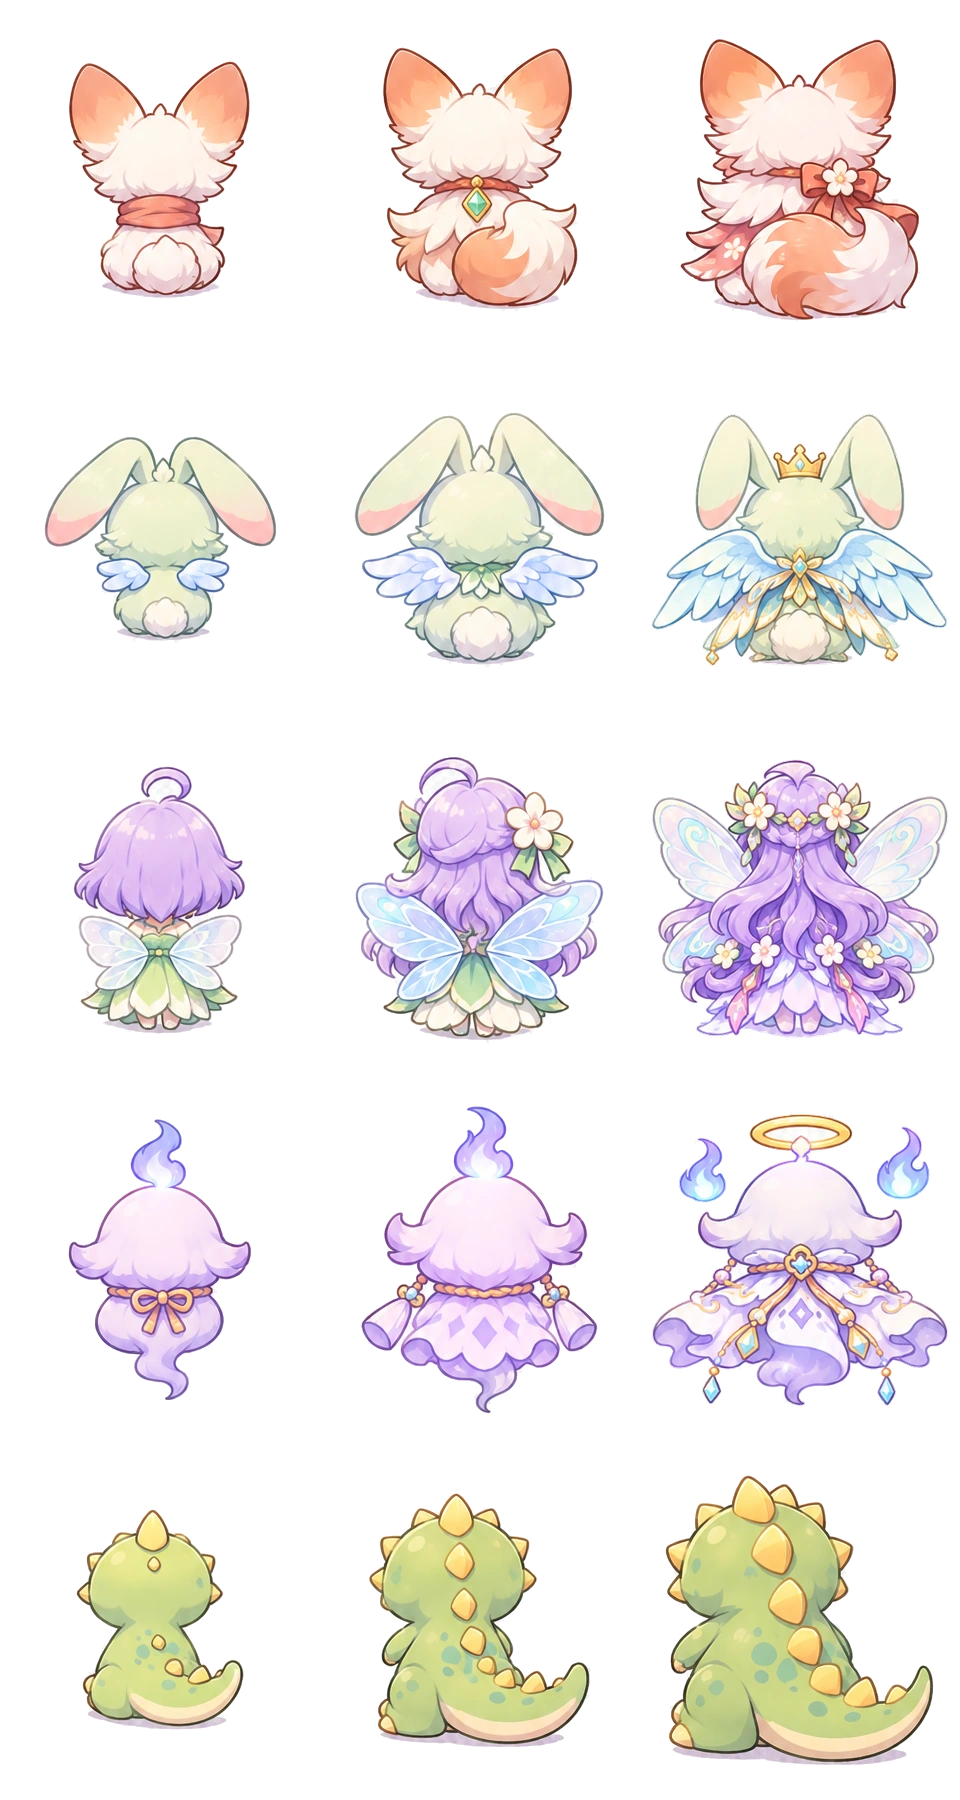
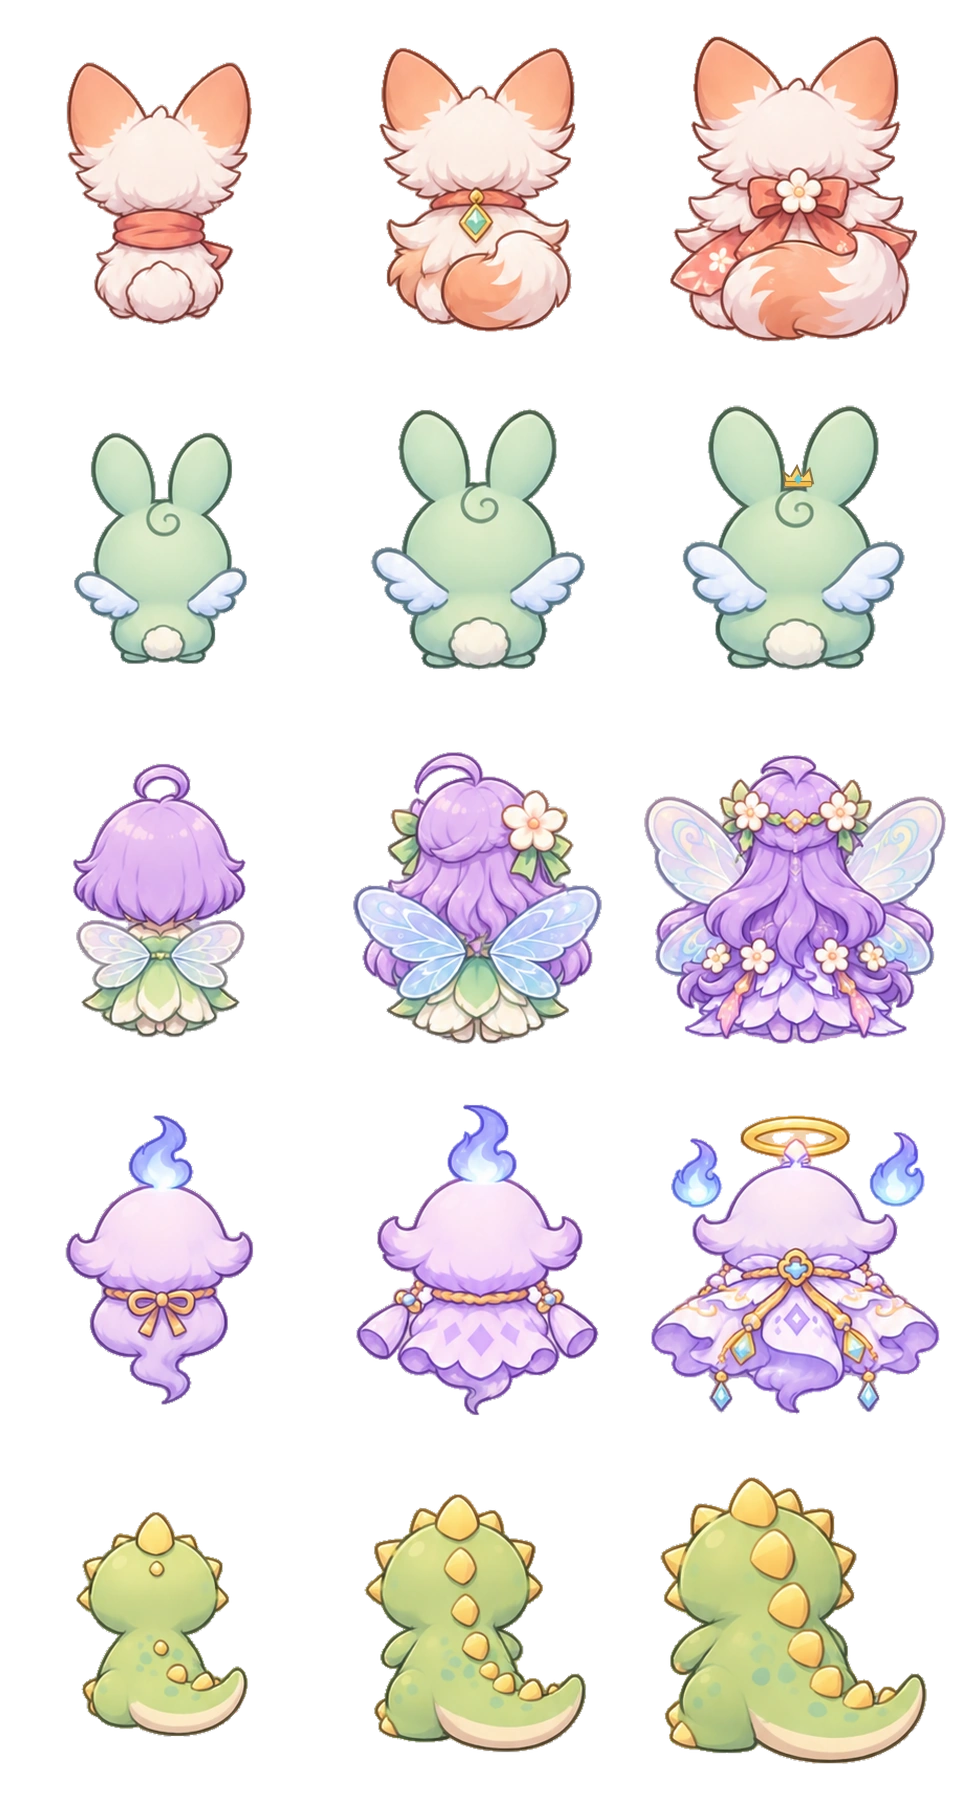
fix(pet): align rear sprite silhouettes and clean alpha (candidate.15)

diff --git a/pet-game.css b/pet-game.css
@@ -315,13 +315,13 @@ body.app-locked .pet-visitor,body:has(dialog[open]) .pet-visitor{display:none}
 }
 .pet-art-image{position:absolute;inset:0;background-repeat:no-repeat;background-color:transparent}
 .pet-art-baby:not(.pet-art-yokai) .pet-art-image{
-  background-image:url("./assets/pet-concept-atlas.webp?v=0246c14");background-size:200% 400%;
+  background-image:url("./assets/pet-concept-atlas.webp?v=0246c15");background-size:200% 400%;
 }
 .pet-art-baby.pet-art-yokai .pet-art-image{
-  background-image:url("./assets/pet-yokai-concept.webp?v=0246c14");background-size:200% 100%;
+  background-image:url("./assets/pet-yokai-concept.webp?v=0246c15");background-size:200% 100%;
 }
 .pet-art-growth .pet-art-image{
-  background-image:url("./assets/pet-growth-atlas.webp?v=0246c14");background-size:400% 500%;
+  background-image:url("./assets/pet-growth-atlas.webp?v=0246c15");background-size:400% 500%;
 }
 .pet-art-front.pet-art-baby .pet-art-image{background-position-x:0%}
 .pet-art-side.pet-art-baby .pet-art-image{background-position-x:100%}
@@ -423,9 +423,9 @@ body.app-locked .pet-visitor,body:has(dialog[open]) .pet-visitor{display:none}
 }
 
 
-/* candidate.14 rear view sprites: 3 stage columns by 5 species rows, 320x360 pixels per cell. */
+/* candidate.15 rear view sprites: 3 stage columns by 5 species rows, 320x360 pixels per cell. */
 .pet-character .pet-art-back .pet-art-image{
-  background-image:url("./assets/pet-rear-atlas.webp?v=0246c14");
+  background-image:url("./assets/pet-rear-atlas.webp?v=0246c15");
   background-size:300% 500%;background-repeat:no-repeat;
 }
 .pet-art-back.pet-art-baby .pet-art-image{background-position-x:0%}

diff --git a/index.html b/index.html
@@ -6,14 +6,14 @@
   <meta name="theme-color" content="#111827">
   <title>家計・資産管理</title>
   <link rel="manifest" href="manifest.webmanifest">
-  <link rel="stylesheet" href="styles.css?v=0246c14">
-  <link rel="stylesheet" href="pet-game.css?v=0246c14">
+  <link rel="stylesheet" href="styles.css?v=0246c15">
+  <link rel="stylesheet" href="pet-game.css?v=0246c15">
 </head>
 <body class="app-booting">
   <header class="app-header">
     <div>
       <h1>家計・資産管理</h1>
-      <p class="sub">v0.2.46-candidate.14</p>
+      <p class="sub">v0.2.46-candidate.15</p>
     </div>
     <label class="month-picker">対象月
       <input id="globalMonth" type="month">
@@ -476,12 +476,12 @@
   </section>
   <div id="toast" role="status" aria-live="polite"></div>
 
-  <script src="db.js?v=0246c14"></script>
-  <script src="dcard-import.js?v=0246c14"></script>
-  <script src="analysis.js?v=0246c14"></script>
-  <script src="pet-art.js?v=0246c14"></script>
-  <script src="pet-illustration.js?v=0246c14"></script>
-  <script src="pet-game.js?v=0246c14"></script>
-  <script src="app.js?v=0246c14"></script>
+  <script src="db.js?v=0246c15"></script>
+  <script src="dcard-import.js?v=0246c15"></script>
+  <script src="analysis.js?v=0246c15"></script>
+  <script src="pet-art.js?v=0246c15"></script>
+  <script src="pet-illustration.js?v=0246c15"></script>
+  <script src="pet-game.js?v=0246c15"></script>
+  <script src="app.js?v=0246c15"></script>
 </body>
 </html>

diff --git a/service-worker.js b/service-worker.js
@@ -1,5 +1,5 @@
-const CACHE='household-asset-manager-v0.2.46-candidate.14';
-const FILES=['./','./index.html','./styles.css?v=0246c14','./db.js?v=0246c14','./dcard-import.js?v=0246c14','./analysis.js?v=0246c14','./pet-game.css?v=0246c14','./pet-art.js?v=0246c14','./assets/pet-concept-atlas.webp?v=0246c14','./assets/pet-yokai-concept.webp?v=0246c14','./pet-illustration.js?v=0246c14','./assets/pet-growth-atlas.webp?v=0246c14','./assets/pet-rear-atlas.webp?v=0246c14','./pet-game.js?v=0246c14','./app.js?v=0246c14','./manifest.webmanifest','./icon-192.png','./icon-512.png'];
+const CACHE='household-asset-manager-v0.2.46-candidate.15';
+const FILES=['./','./index.html','./styles.css?v=0246c15','./db.js?v=0246c15','./dcard-import.js?v=0246c15','./analysis.js?v=0246c15','./pet-game.css?v=0246c15','./pet-art.js?v=0246c15','./assets/pet-concept-atlas.webp?v=0246c15','./assets/pet-yokai-concept.webp?v=0246c15','./pet-illustration.js?v=0246c15','./assets/pet-growth-atlas.webp?v=0246c15','./assets/pet-rear-atlas.webp?v=0246c15','./pet-game.js?v=0246c15','./app.js?v=0246c15','./manifest.webmanifest','./icon-192.png','./icon-512.png'];
 
 self.addEventListener('install',e=>{
   e.waitUntil(

diff --git a/db.js b/db.js
@@ -1,7 +1,7 @@
 (function(global){
   'use strict';
   const HAM=global.HAM=global.HAM||{};
-  const APP_VERSION='0.2.46-candidate.14';
+  const APP_VERSION='0.2.46-candidate.15';
   const SCHEMA_VERSION=2;
   const DB_NAME='householdAssetManagerDB_v2';
   const DB_VERSION=1;

diff --git a/README.md b/README.md
@@ -1,3 +1,11 @@
+### v0.2.46-candidate.15：背面の造形修正・透過ノイズ除去（2026-11-24）
+
+- Androidの表示指摘を受け、既存の背面アトラスを修正版に差し替え。特に架空の生き物の耳を正面・斜めの立ち耳に寄せ、羽・頭の形を調整。成体の王冠を補完。全5種族×3段階=15コマを透過WebPに収録（960×1800px、各320×360px）。
+- 修正版は生成画像の低アルファ周辺ノイズを除去し、15コマのセル外は透明。旧背面画像は前コミットで復元可能。既存の正面・斜め素材は無変更。
+- assets/pet-rear-atlas.webp Git blob SHA: c8c42ec54ea32330b1fa253be1a1d125fc6a062c。素材SHA-256: acb0280291e4a610f9ecce21503cecc82554cb2a4ca862d395fb21dd1d6d9e9e。
+- 画面・APP_VERSION・Service Workerキャッシュ・スプライト参照クエリをcandidate.15に同期。家計計算／IndexedDB／CSV／月次報酬／JSONバックアップのロジックに変更なし。
+- 残課題：正面・斜めの1コマ160×180pxの画質不足、15背面と正面の全成長段階での美術的一致、まばたき・羽・尾などの専用差分アニメ。Android Human QA未完了。stableには昇格しない。
+
 ### v0.2.46-candidate.14：後ろ姿15カットをcandidateに組み込み（2026-11-24）
 
 - 5種族×幼体・中間体・成体の背面15カットを新規WebP（960×1800px、1コマ320×360px）としてGitHubに追加。Git blob SHA b35e819f7df8ac104584cca0fb4e1f8f66e79a7d。GitHub再取得一致確認済み。
@@ -30,12 +38,12 @@
 | --- | --- |
 | 正式版 | **v0.2.45 stable**（main、現行本番） |
 | main | 正式stable・GitHub Pages配信元（root） |
-| candidate | **v0.2.46-candidate.14**：新背面15カットを追加して4方向自動転換を復帰。正面・斜めの高解像度化、パーツアニメーション、美術的一致は未完成（Human QA待ち） |
+| candidate | **v0.2.46-candidate.15**：背面15カットの造形と透過品質を改善。正面・斜めの高解像度化、専用パーツアニメ、美術的一致の最終確認は未完成（Human QA待ち） |
 | rollback | 直前stableは `v0.2.45` の **main SHA `3d9d9baed9a90aa3154b62003b24458bca74be6d`**。同版tag/Releaseは未作成。過去の固定tag/Releaseは `v0.2.16`（`v0.2.15`も保持） |
-| 品質 | stable v0.2.45：採用済み。candidate v0.2.46-candidate.14：GitHub実ファイル静的整合16/16 PASS、独立Chromium画像デコード・15セル切出し15/15 PASS。実アプリ全体のAndroid Human QAは未実施。前版candidate.11では静的27/27、描画60通り、模擬12/12 PASS。Android実機で幼体の外観は好評だが画像が粗いとの指摘あり。画質・新後ろ姿・専用アニメーションは未完了。**Human QA一部実施、全体未完了** |
+| 品質 | stable v0.2.45：採用済み。candidate v0.2.46-candidate.15：新素材とコードのAI QA実施中。Android Human QAは未実施。前版candidate.11では静的27/27、描画60通り、模擬12/12 PASS。Android実機で幼体の外観は好評だが画像が粗いとの指摘あり。画質・新後ろ姿・専用アニメーションは未完了。**Human QA一部実施、全体未完了** |
 | 現在の段階 | v0.2.45 stableを維持し、育成機能はcandidateで検証 |
 
-v0.2.45は給与入金前の現在月・未完了月のホーム表示を支出中心に変更した正式版です。**2026-11-24引き継ぎ確認**：main SHA `3d9d9baed9a90aa3154b62003b24458bca74be6d`、最新candidateは `v0.2.46-candidate.14`。candidateのHEADは更新されるため新チャットでGitHubとNotionを照合してください。
+v0.2.45は給与入金前の現在月・未完了月のホーム表示を支出中心に変更した正式版です。**2026-11-24引き継ぎ確認**：main SHA `3d9d9baed9a90aa3154b62003b24458bca74be6d`、最新candidateは `v0.2.46-candidate.15`。candidateのHEADは更新されるため新チャットでGitHubとNotionを照合してください。
 
 ## 実装済みの主な機能
 
